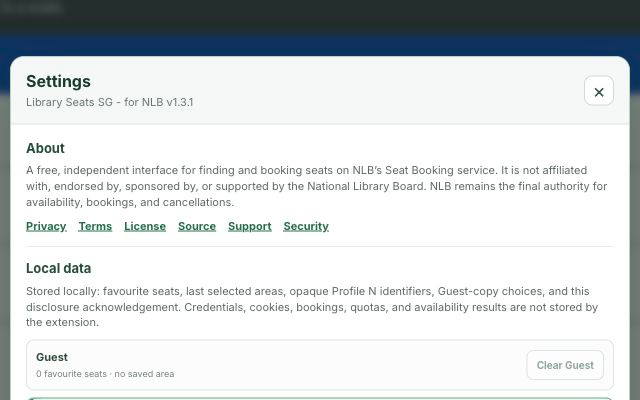
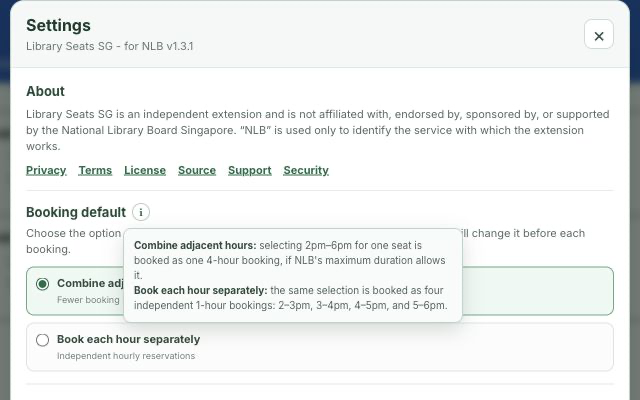
Refresh Chrome Web Store settings screenshot

diff --git a/assets/chrome-web-store/README.md b/assets/chrome-web-store/README.md
@@ -18,17 +18,20 @@ packaged, rehosted, or reused in the promo tile.
 | `small-promo-tile.png` | 440×280 | Required small promotional tile |
 | `store-overview.png` | 1280×800 | Authentic current extension overview with the integrated seat plan and availability timeline |
 | `store-seat-picker.png` | 1280×800 | Authentic current interactive seat picker with seat-number search |
-| `settings-and-privacy.png` | 640×400 | Authentic Settings capture cropped before any account profile data |
+| `settings-and-privacy.png` | 640×400 | Authentic Settings capture showing the booking default and its explanatory tooltip, cropped before any account profile data |
 
 The older files under the repository-level `screenshots/` directory are
 historical documentation references. Do not upload them because they use the
 previous product name.
 
-The current authentic captures were taken while signed out. They show Guest
-favourite seat numbers, but no account label, profile number, raw account ID,
-booking reference, credentials, cookie, or API response. The publisher must
-still approve those preference-level details before upload or recapture the
-same views from a clean Guest state.
+The overview and seat-picker captures were taken while signed out. They show
+Guest favourite seat numbers, but no account label, profile number, raw account
+ID, booking reference, credentials, cookie, or API response. The Settings
+capture was taken from an active session but is cropped above Local data, so it
+does not expose the account label, masked username, profile number, favourites,
+or saved-area status. The publisher must still approve the Guest preference-
+level details in the two feature captures before upload or recapture those
+views from a clean Guest state.
 
 ## Small promo tile provenance
 
